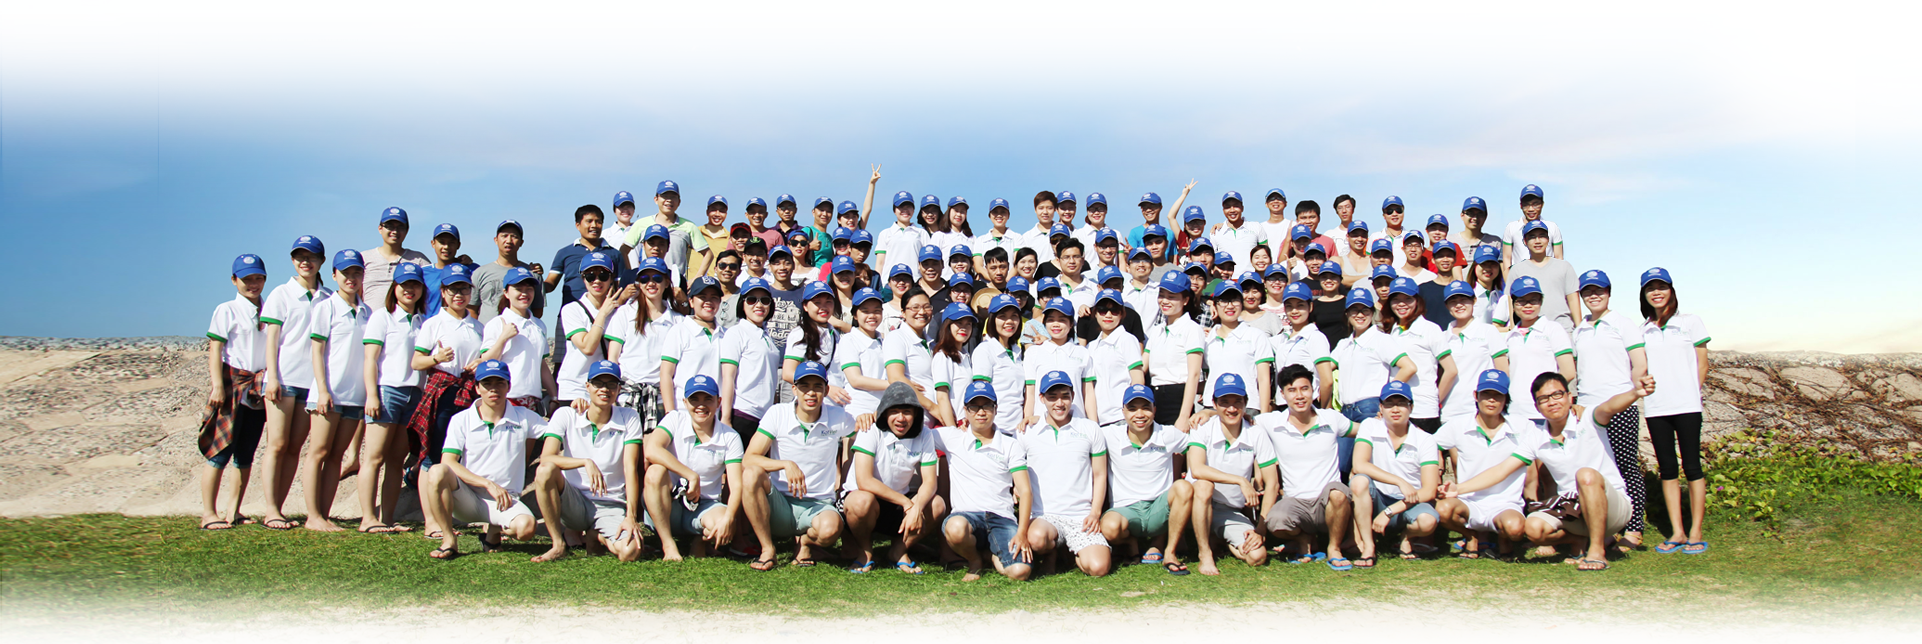
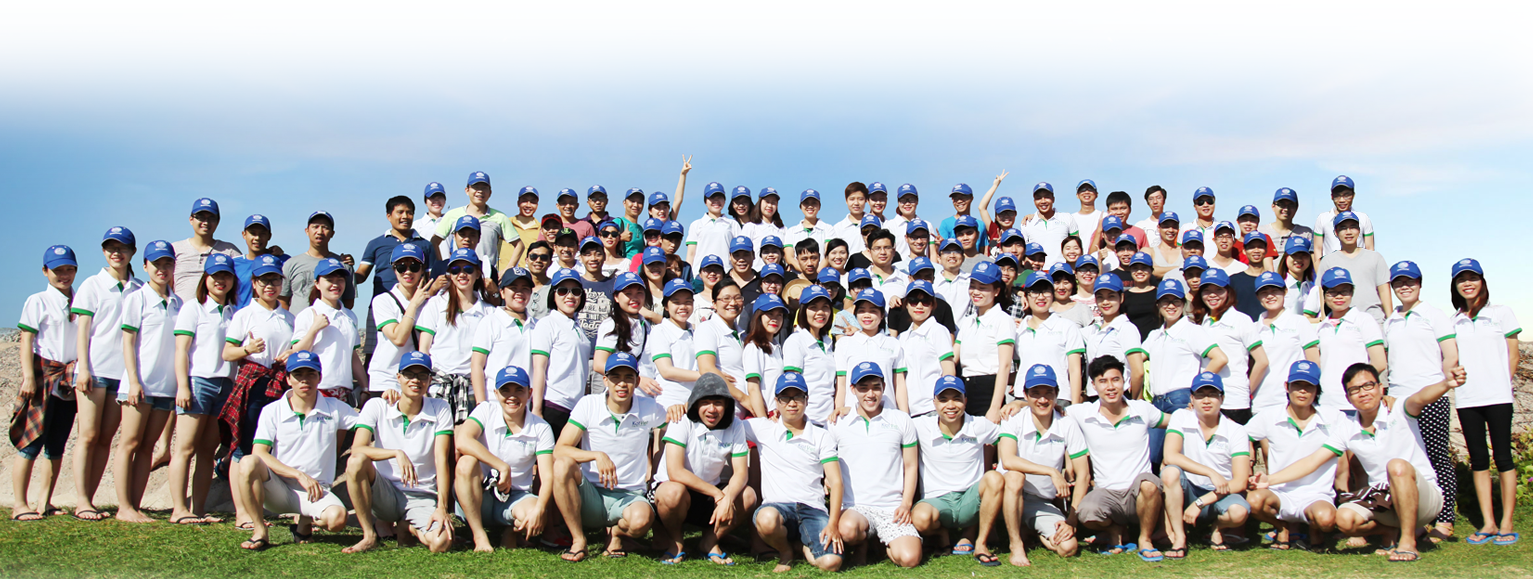
#fix ảnh của Trung gà

diff --git a/resources/views/gioithieu.blade.php b/resources/views/gioithieu.blade.php
@@ -11,7 +11,7 @@
 
 @stop
 
-<header class="site-header size-lg text-center" style="padding: 220px;;background-image: url({{ URL::asset('public/img/Anh-tap-the.png') }})">
+<header class="site-header size-lg text-center" style="padding: 220px;background-position: center;background-image: url({{ URL::asset('public/img/Anh-tap-the.png') }})">
 
 </header>
 
